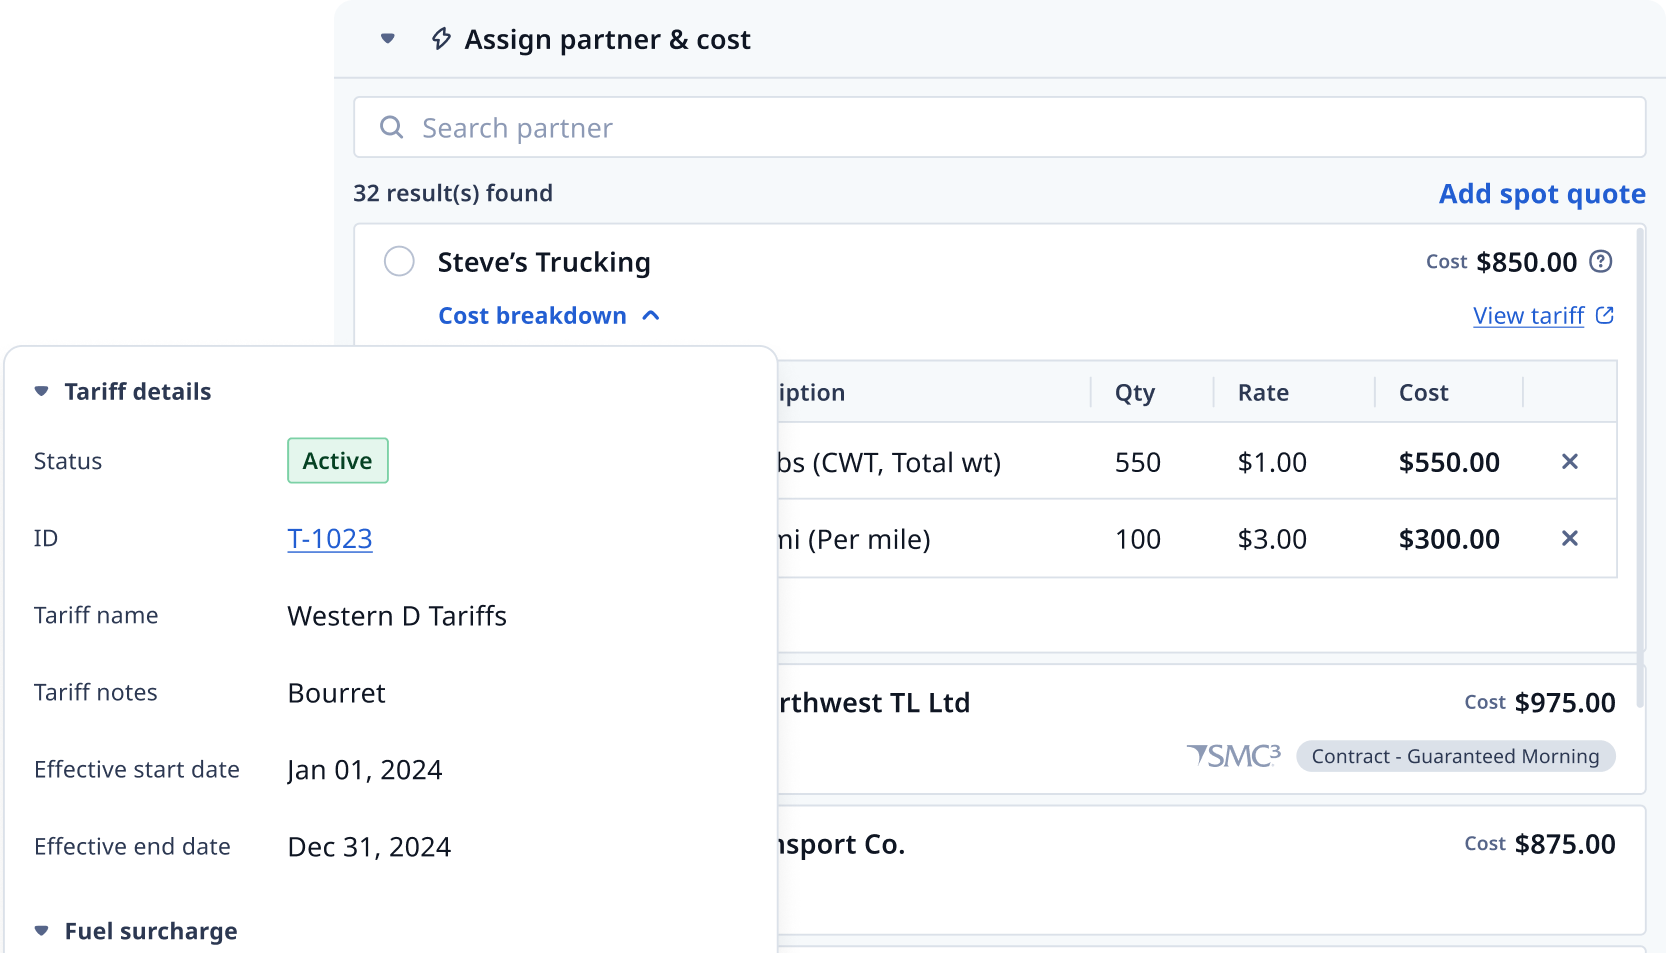
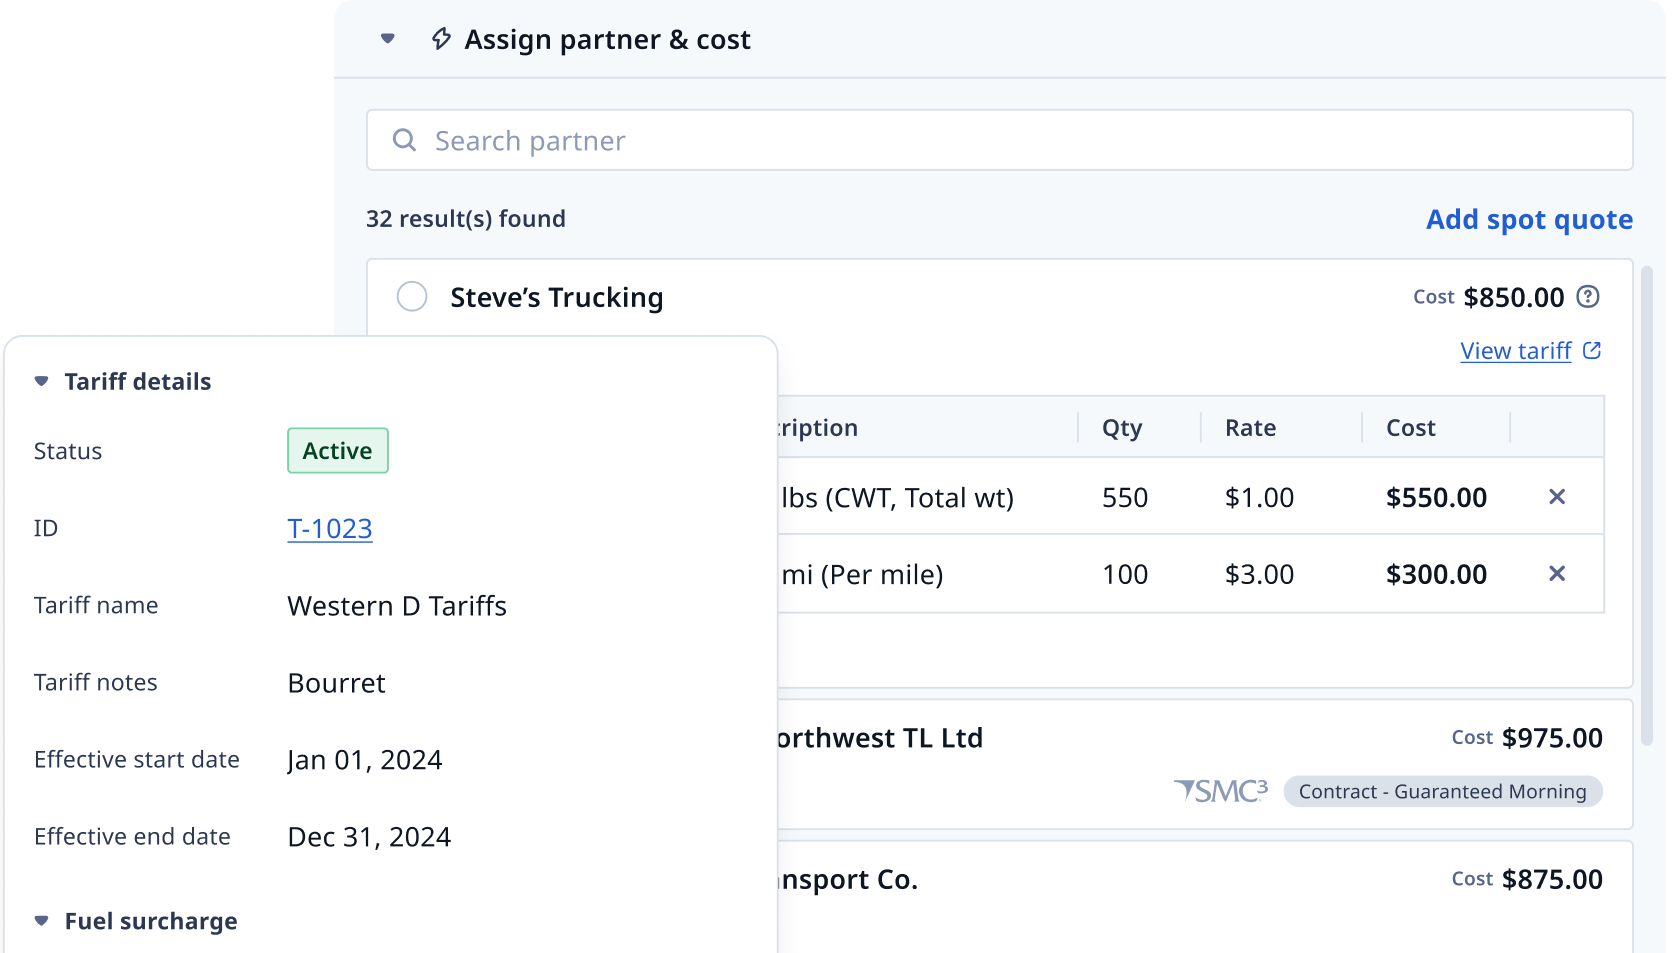
Content updates

diff --git a/rating.html b/rating.html
@@ -244,10 +244,9 @@
             </section>
             <section id="section1-4" class="section spacer-top">
               <h3 class="spacer-bottom-sm">Our Approach</h3>
-              <p class="spacer-bottom">The lack of rating in our Platform meant that most users were requierd to go to 
+              <p class="spacer-bottom">Since our Platform did not yet have an integrated rating solution, users had no choice but to use spreadsheets or competing TMS systems to fulfill their rating needs. This project set out to bridge that gap by <b class="content-highlight">introducing a dependable, in-platform solution</b> to simplify our users' operational workflows.</p>
 
-                To address these challenges, we focused on building a <b class="content-highlight">rating engine</b> on our platform that would serve to</p>
-
+              <p>Our approach emphasized building a flexible, user-centered system to empower confident pricing decisions and ease the challenges of LTL rating.</p>
               </section>
             </section>
             <hr class="hr">
@@ -255,22 +254,29 @@
               <h2 class="spacer-bottom-sm content-highlight">Design Process</h2>
               <section id="section2-1" class="section spacer-top">
                 <h3 class="spacer-bottom-sm">Timeline</h3>
-                <p>For this project, we used a two-phased approach to build, test, and iterate on the feature:</p>
+                <p>For this project, we used a three-phased approach to build, test, and iterate on the feature:</p>
                 <div class="spacer-bottom">
                   <div class="timeline">
                     <div class="row text-center">
-                      <div class="col-6 dot-container">
+                      <div class="col-4 dot-container">
                         <div class="dot"></div>
                         <div class="timeline-label">
-                          <div class="timeline-header">Proof of Concept</div>
-                          <div class="timeline-date">Q1</div>
+                          <div class="timeline-header">Research</div>
+                          <div class="timeline-date">Jul - Aug 2024</div>
                         </div>
                       </div>
-                      <div class="col-6 dot-container">
+                      <div class="col-4 dot-container">
                         <div class="dot"></div>
                         <div class="timeline-label">
-                          <div class="timeline-header">Commercial Launch</div>
-                          <div class="timeline-date">Q2 to Early Q3</div>
+                          <div class="timeline-header">Testing</div>
+                          <div class="timeline-date">Aug 2024</div>
+                        </div>
+                      </div>
+                      <div class="col-4 dot-container">
+                        <div class="dot"></div>
+                        <div class="timeline-label">
+                          <div class="timeline-header">Release</div>
+                          <div class="timeline-date">Sep 2024</div>
                         </div>
                       </div>
                     </div>
